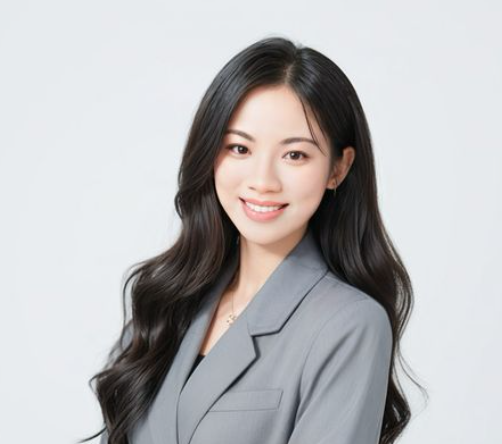
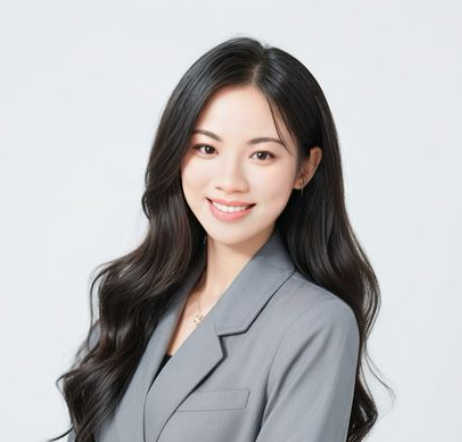
succesfully finished cv002

Changed region(s): [[0.0909, 0.0588, 0.8485, 1.0], [0.5152, 0.7353, 0.7273, 1.0]]

diff --git a/builder.html b/builder.html
@@ -1546,15 +1546,7 @@
                 />
               </div>
             </div>
-            <div class="field">
-              <label for="f-website">Website</label>
-              <input
-                id="f-website"
-                type="text"
-                data-token="website"
-                placeholder="ada.dev"
-              />
-            </div>
+
           </div>
         </div>
 

diff --git a/templates/cv002.html b/templates/cv002.html
@@ -451,10 +451,10 @@
             {{/email}} {{#phone}}
             <div class="contact-label">Phone</div>
             <div class="contact-value">{{phone}}</div>
-            {{/phone}} {{#website}}
-            <div class="contact-label">Website</div>
-            <div class="contact-value">{{website}}</div>
-            {{/website}}
+            {{/phone}} {{#linkedin}}
+            <div class="contact-label">LinkedIn</div>
+            <div class="contact-value">{{linkedin}}</div>
+            {{/linkedin}}
           </div>
 
           <!-- Skills Section -->

diff --git a/js/script.js b/js/script.js
@@ -39,7 +39,7 @@ const DEFAULT_DATA = {
     email: "[email redacted]",
     phone: "+1 234 567-8900",
     location: "New York, NY",
-    website: "ninalane.com",
+    linkedin: "linkedin.com/in/ninalane",
     summary:
       "Creative graphic designer with 5+ years' experience in impactful print and digital visuals. Skilled in brand identity, social media, and packaging design, with Adobe Creative Suite and Figma expertise. Focused on delivering fresh, aesthetic solutions.",
     skillsTechnical: "Photoshop, Illustrator, Figma",